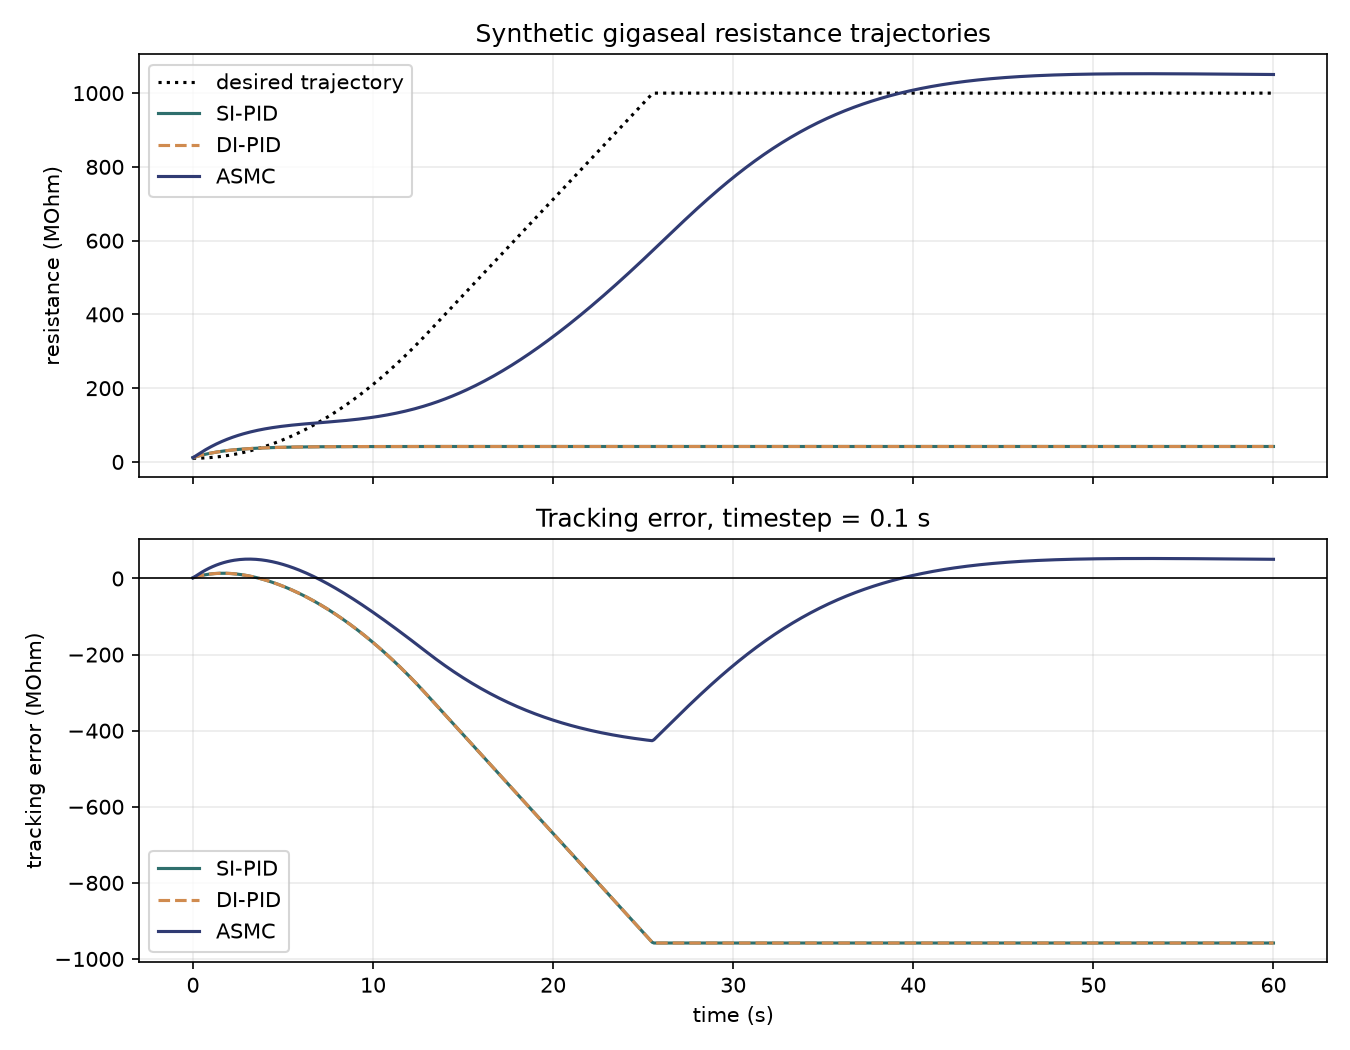
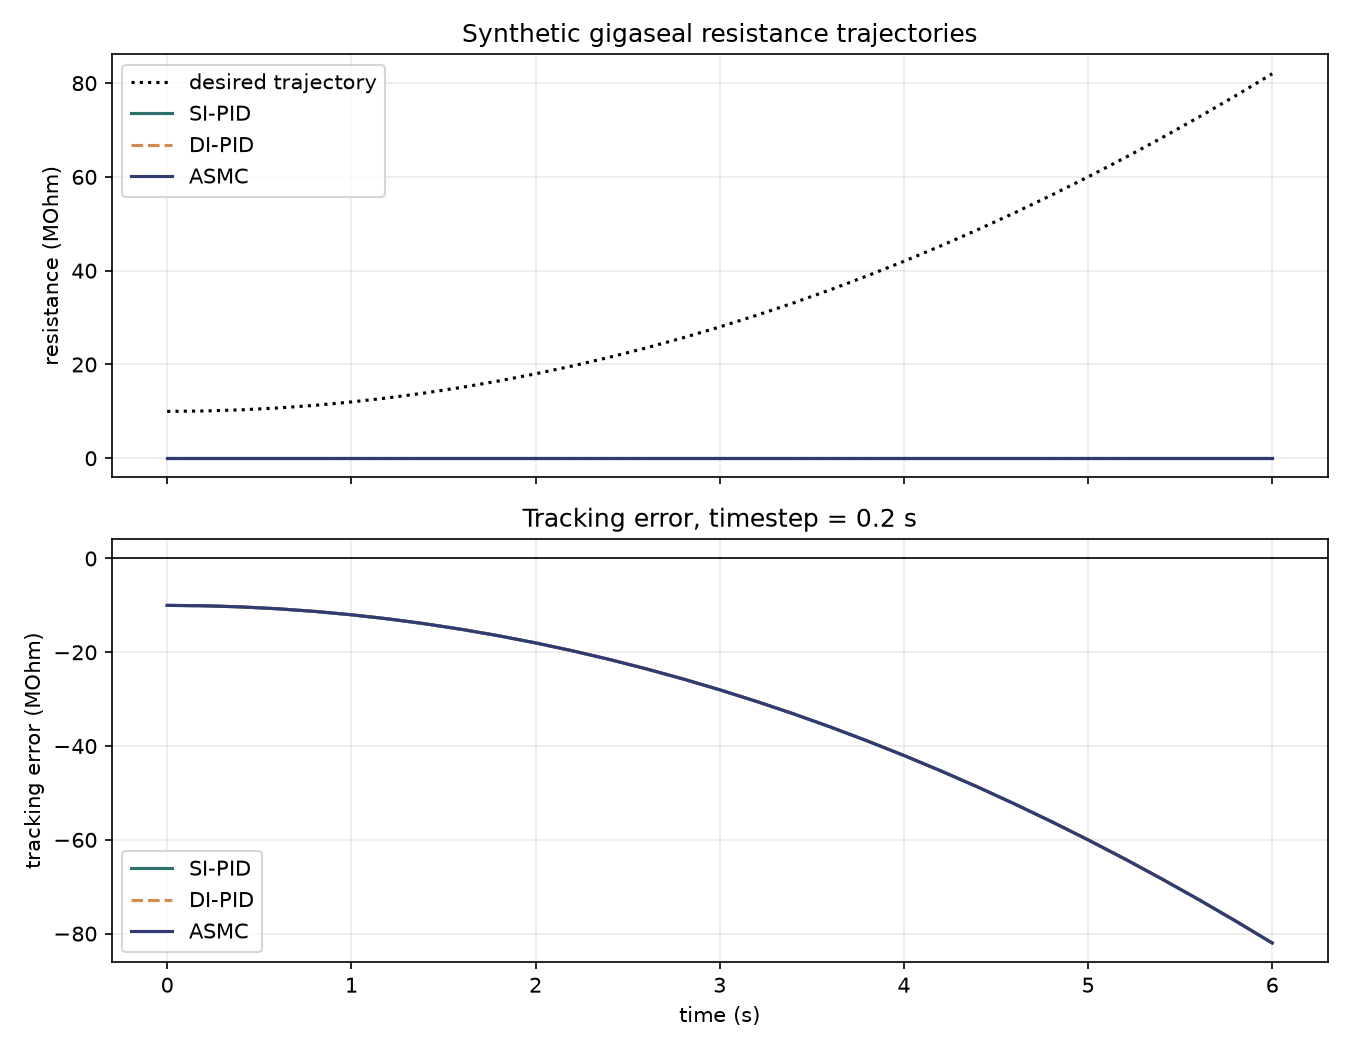
Unit System Change
The agent tried to make everything in SI upon my request. This nominally worked in the sense that it would reach gigaseal in the simulation. However, it had the minor problem of making all the gains other than k1 and k2 totally useless, they had contributions like 12 orders of magnitude smaller than those 2. So, I attempted to put everything in the units as given in the paper, micrometers instead of meters for example. This was an attempt to get the gains as tuned in the paper to be meaningful and to at least have them all do something when changed. So far, this has not worked but I am commiting to work on this on my other computer.

diff --git a/patcherbot/deepLearning/AdaptiveSlidingModeController.py b/patcherbot/deepLearning/AdaptiveSlidingModeController.py
@@ -47,14 +47,14 @@ class AdaptiveSlidingModeController:
         self.lambda2 = float(controller["lambda2"])
         self.pressure_min_mbar = float(controller["pressure_min_mbar"])
         self.pressure_max_mbar = float(controller["pressure_max_mbar"])
-        self.voltage_min_v = float(controller["voltage_min_v"])
-        self.voltage_max_v = float(controller["voltage_max_v"])
+        self.voltage_min_mv = float(controller["voltage_min_mv"])
+        self.voltage_max_mv = float(controller["voltage_max_mv"])
         model = self.parameters["model"]
-        self.pipette_radius_m = float(model["pipette_radius_um"]) * 1e-6
-        self.liquid_layer_thickness_m = float(model["liquid_layer_thickness_nm"]) * 1e-9
+        self.pipette_radius_um = float(model["pipette_radius_um"]) #formerly converted to meters for SI but once again this does not mix with the paper and thus the tuned constants
+        self.liquid_layer_thickness_nm = float(model["liquid_layer_thickness_nm"]) #formerly converted to meters for SI but once again this does not mix with the paper and thus the tuned constants
         self.seal_media_resistivity_ohm_m = float(model["seal_media_resistivity_ohm_m"])
-        self._resistance_to_length_m = (
-            2.0 * math.pi * self.pipette_radius_m * self.liquid_layer_thickness_m
+        self._resistance_to_length_Mohm_to_nm = (
+            2.0 * math.pi * self.pipette_radius_um * self.liquid_layer_thickness_nm
             / self.seal_media_resistivity_ohm_m
         )
         self._derive_nominal_model_parameters(model)
@@ -64,20 +64,32 @@ class AdaptiveSlidingModeController:
         """Calculate a,b,c,d from the physical model in the paper."""
         epsilon_0 = 8.854e-12
         epsilon_r = float(model["relative_permittivity"])
-        mass_kg = float(model["membrane_mass_g"]) * 1e-3
+        mass_g = float(model["membrane_mass_g"]) #in the paper they used mass in grams, no need to convert to kg but it was in previous version of code
         elastic_n_per_m = float(model["elastic_coefficient_n_per_m"])
         viscous_kg_per_s = float(model["viscous_coefficient_kg_per_s"])
         adhesion_n_per_m2 = float(model["adhesion_friction_n_per_m2"])
-        membrane_potential_v = float(model["membrane_surface_potential_mv"]) * 1e-3
-        pipette_potential_v = float(model["pipette_surface_potential_mv"]) * 1e-3
-        potential_gradient_v_per_m = float(model["surface_potential_gradient_mv_per_nm"]) * 1e6
-        self.model_a = -viscous_kg_per_s / mass_kg
-        self.model_b = -(adhesion_n_per_m2 * 2.0 * math.pi * self.pipette_radius_m + elastic_n_per_m) / mass_kg
-        self.model_c = math.pi * self.pipette_radius_m ** 2 / mass_kg
-        self.model_d = (
-            2.0 * math.pi * self.pipette_radius_m * epsilon_0 * epsilon_r / mass_kg
-            * ((membrane_potential_v - pipette_potential_v) / self.liquid_layer_thickness_m
-               + potential_gradient_v_per_m)
+
+        #the following were all converted to V and the last converted nm -> m, this is all counter to the paper and has thus been deconverted
+        membrane_potential_mv = float(model["membrane_surface_potential_mv"])
+        pipette_potential_mv = float(model["pipette_surface_potential_mv"])
+        potential_gradient_mv_per_nm = float(model["surface_potential_gradient_mv_per_nm"])
+
+        '''
+        length of aspirated membrane in meters, speed of that in meters per second, pressure in mbar, voltage in mV
+        '''
+        self.model_a = -viscous_kg_per_s / mass_g
+        #in the paper there is a typo in this definion that mixes units, the LLM caught it and so did I but separately and after a lot of time wasting
+        #also there is a conversion factor of 1e-6 because you can't mix meters and micrometers without accounting for that
+        #there is also a conversion factor of 1e-3 because the mass is in grams and the force is in newtons, so you have to convert to kg to get m/s^2
+        self.model_b = -(adhesion_n_per_m2 * 2.0 * math.pi * self.pipette_radius_um * 1e-6 + elastic_n_per_m) / (mass_g * 1e-3)
+        self.model_c = 100 * math.pi * self.pipette_radius_um ** 2 * 1e-12 / (mass_g * 1e-3) #converted back to SI units and accounting for the pressure being given in mbar, not pascals, hence the 100*
+
+        #again, there is the mixing of units, radius given in micrometers and permittivity in F/m
+        #to get it in the desired m/s^2 when multiplied by the input V must multiply by 1e12 ugh
+        self.model_d = 1e12*(
+            2.0 * math.pi * self.pipette_radius_um * 1e-6 * epsilon_0 * epsilon_r / mass_g
+            * ((membrane_potential_mv - pipette_potential_mv) / self.liquid_layer_thickness_nm
+               + potential_gradient_mv_per_nm)
         )
         self.nominal_theta = [
             self.model_a / (2.0 * self.model_c),
@@ -154,6 +166,8 @@ class AdaptiveSlidingModeController:
             - self.desired_length_acceleration_m_per_s2
         )
 
+        '''
+        currently not updating thetas to debug the presets, they are essentially negligible compared to the k1 and k2 gains
         self._update_adaptive_estimates(
             measured_length_m,
             measured_length_rate_m_per_s,
@@ -161,6 +175,7 @@ class AdaptiveSlidingModeController:
             sliding_surface,
             measurement_window_s,
         )
+        '''
 
         '''
         This is clearly a check to see if it reached the gigaseal
@@ -197,7 +212,7 @@ class AdaptiveSlidingModeController:
         #i might be misremembering, but I think there was a previous version of this code that had them incremint rather that absolute
         #also check if the units are right on voltage, right now its defintely volts but there seems to be some confusion if this code base wants mV or V
         self.current_pressure_mbar = self._clip_pressure(-0.01 * u1) #0.01 multiple converts from Pascals to mbar, the agent wanted to work in SI units even though all tunable constants are arbitrary
-        self.current_voltage_v = self._clip_voltage(-u2) 
+        self.current_voltage_v = self._clip_voltage(-u2) / 1000.0 #converting from mV to V for compatibility with other patcherbot commands
         self._remember_measurement(resistance_mohm, measured_rate_mohm_per_s, measured_length_rate_m_per_s)
         return SealControlCommand(
             pressure_mbar=self.current_pressure_mbar,
@@ -274,8 +289,11 @@ class AdaptiveSlidingModeController:
         But we can only measure resistance
         They have it as a linear multiple of aspirated membrane length, which I (Dom) am skeptical of
         But it is pretty core to their theory and this function saves a lot of conversion elsewhere if we did it just based on resistance
+
+        Additional note, formerly there was a conversion factor of 10e6 but I have changed to 10e9 because I think that that is the proper converion factor to get to meters
+        They mix units of length all over the place so I might be getting confused, but I think the LLM that did this was the confused one
         """
-        return float(resistance_mohm) * 1e6 * self._resistance_to_length_m
+        return float(resistance_mohm) * 1e9 * self._resistance_to_length_Mohm_to_nm
 
     @staticmethod
     def _sign(value):
@@ -290,5 +308,5 @@ class AdaptiveSlidingModeController:
     def _clip_pressure(self, pressure_mbar):
         return max(self.pressure_min_mbar, min(self.pressure_max_mbar, float(pressure_mbar)))
 
-    def _clip_voltage(self, voltage_v):
-        return max(self.voltage_min_v, min(self.voltage_max_v, float(voltage_v)))
+    def _clip_voltage(self, voltage_mv):
+        return max(self.voltage_min_mv, min(self.voltage_max_mv, float(voltage_mv)))

diff --git a/AdaptiveSlidingModeControllerDiagnostics.py b/AdaptiveSlidingModeControllerDiagnostics.py
@@ -19,8 +19,8 @@ from simple_pid import PID
 
 
 # User-facing simulation controls.
-TIME_STEP_S = 0.1
-SIMULATION_DURATION_S = 60.0
+TIME_STEP_S = 0.2
+SIMULATION_DURATION_S = 6.0
 BASELINE_RESISTANCE_MOHM = 10.0
 TARGET_RESISTANCE_MOHM = 1000.0
 
@@ -60,9 +60,9 @@ def make_pid_controllers():
     mbar and voltage is volts. Negative gains map increasing resistance error
     to the negative-pressure/negative-voltage convention used by this rig.
     """
-    si_pid = PID(0.0, 0, 0, setpoint=0.0, sample_time=None, output_limits=(-90.0, -5.0))
-    di_pressure_pid = PID(0.0, 0, 0, setpoint=0.0, sample_time=None, output_limits=(-90.0, -5.0))
-    di_voltage_pid = PID(0.0, 0, 0, setpoint=0.0, sample_time=None, output_limits=(-0.11, 0.0))
+    si_pid = PID(400, 600, 50, setpoint=0.0, sample_time=None, output_limits=(-90.0, -5.0))
+    di_pressure_pid = PID(300, 500, 50, setpoint=0.0, sample_time=None, output_limits=(-90.0, -5.0))
+    di_voltage_pid = PID(3, 6, 0.5, setpoint=0.0, sample_time=None, output_limits=(-0.11, 0.0))
     return si_pid, di_pressure_pid, di_voltage_pid
 
 
@@ -123,19 +123,21 @@ def simulate():
             acceleration_m_per_s2,
             constant_rate_m_per_s,
         )
-        desired_resistance_mohm = desired_length_m / model_controller._resistance_to_length_m / 1e6
+        desired_resistance_mohm = desired_length_m * 1e-9 / model_controller._resistance_to_length_Mohm_to_nm
         desired_resistances.append(desired_resistance_mohm)
 
         asmc_command = asmc.update(
             resistance_mohm=resistances["ASMC"][-1] if resistances["ASMC"] else BASELINE_RESISTANCE_MOHM,
             measurement_window_s=TIME_STEP_S,
         )
-        si_pid.setpoint = desired_length_m
-        di_pressure_pid.setpoint = desired_length_m
-        di_voltage_pid.setpoint = desired_length_m
-        si_pressure_mbar = si_pid(states["SI-PID"][0], dt=TIME_STEP_S)
-        di_pressure_mbar = di_pressure_pid(states["DI-PID"][0], dt=TIME_STEP_S)
-        di_voltage_v = di_voltage_pid(states["DI-PID"][0], dt=TIME_STEP_S)
+        #these all have the length to resistance conversion in them because the gains are tuned for that in the paper
+        si_pid.setpoint = desired_length_m * 1e-9 / model_controller._resistance_to_length_Mohm_to_nm
+        di_pressure_pid.setpoint = desired_length_m * 1e-9 / model_controller._resistance_to_length_Mohm_to_nm
+        di_voltage_pid.setpoint = desired_length_m * 1e-9 / model_controller._resistance_to_length_Mohm_to_nm
+        
+        si_pressure_mbar = si_pid(states["SI-PID"][0] * 1e-9 / model_controller._resistance_to_length_Mohm_to_nm, dt=TIME_STEP_S)
+        di_pressure_mbar = di_pressure_pid(states["DI-PID"][0] * 1e-9 / model_controller._resistance_to_length_Mohm_to_nm, dt=TIME_STEP_S)
+        di_voltage_v = di_voltage_pid(states["DI-PID"][0] * 1e-9 / model_controller._resistance_to_length_Mohm_to_nm, dt=TIME_STEP_S)
 
         commands = {
             "SI-PID": (si_pressure_mbar, 0.0),
@@ -153,11 +155,14 @@ def simulate():
                 model_controller,
             )
             position = states[name][0]
-            resistance = position / model_controller._resistance_to_length_m / 1e6
+            resistance = position * 1e-9 / model_controller._resistance_to_length_Mohm_to_nm
             resistances[name].append(max(0.0, resistance))
-
-        print(di_pressure_mbar, di_voltage_v)
-
+        
+        
+        acceleration_vec = [model_controller.model_a*states["ASMC"][0], model_controller.model_b*states["ASMC"][1], model_controller.model_c*asmc_command.pressure_mbar, model_controller.model_d*asmc_command.holding_voltage_v]
+        print(acceleration_vec, np.sum(acceleration_vec))
+        #print(states["ASMC"], asmc_command.pressure_mbar, asmc_command.holding_voltage_v)
+        #print(model_controller.model_a, model_controller.model_b, model_controller.model_c, model_controller.model_d)
     return times, np.asarray(desired_resistances), resistances
 
 
